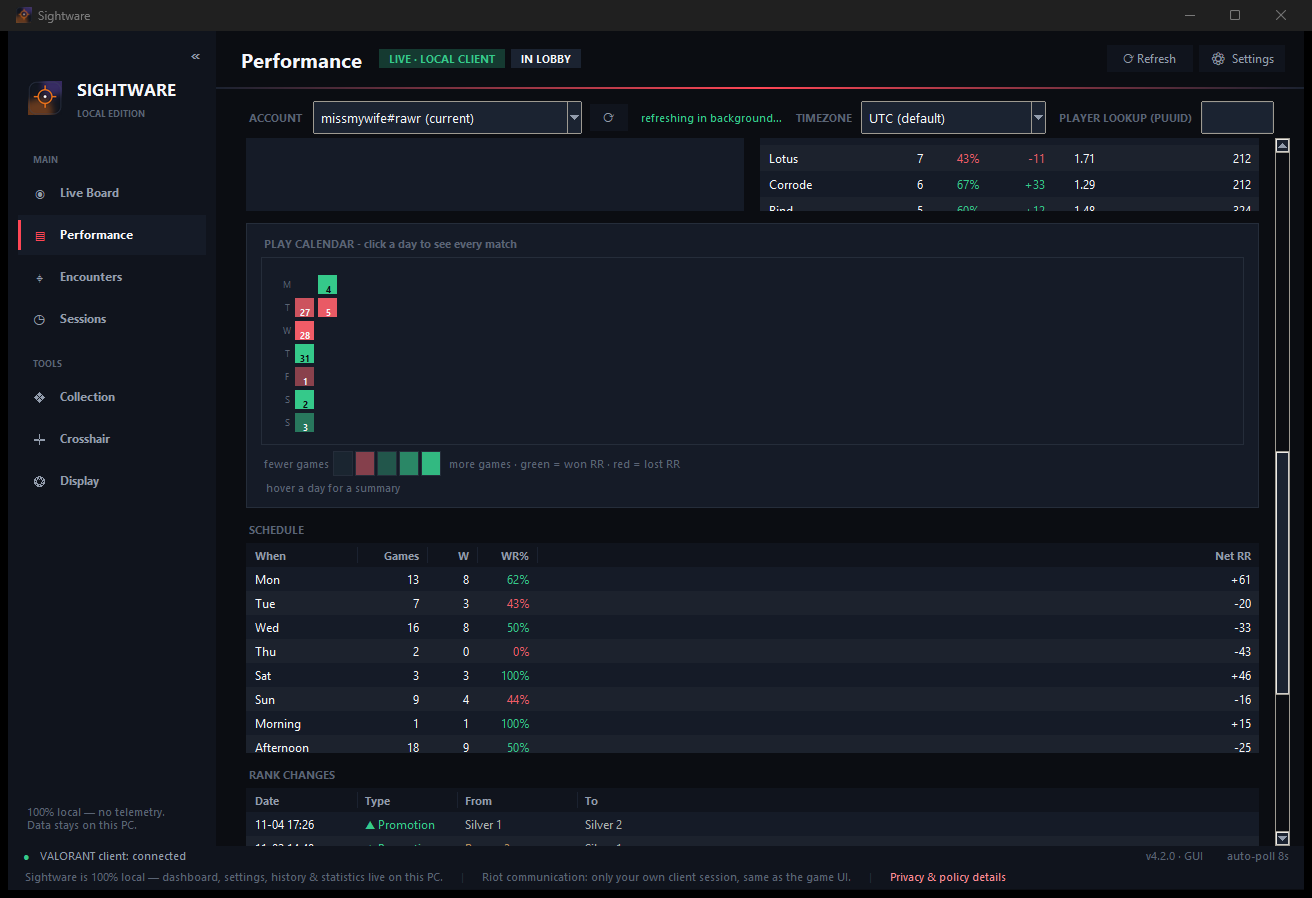
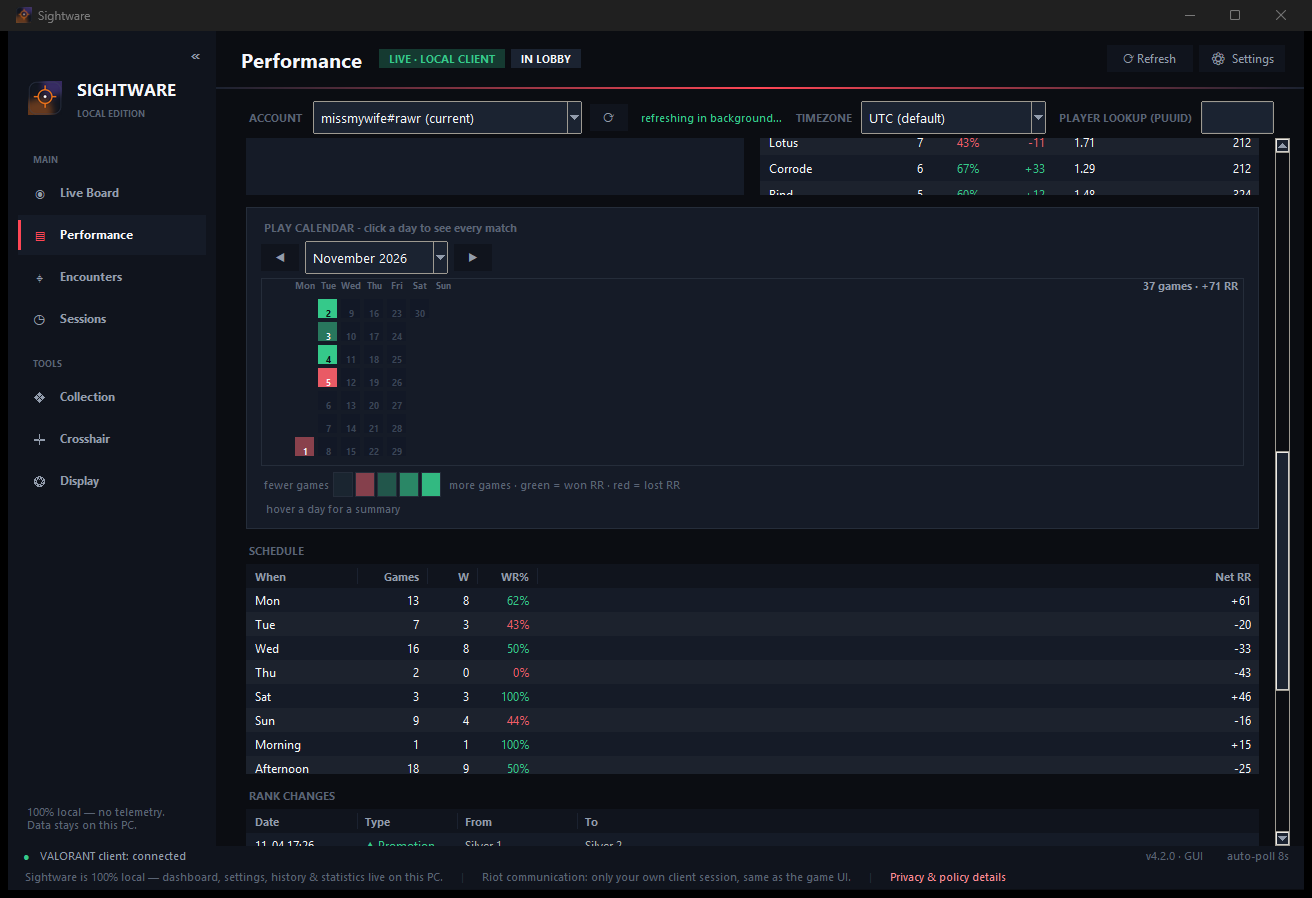
Play calendar: month view with dropdown navigation
- The calendar now shows ONE month at a time in a true month grid
  (Mon-Sun columns, every day numbered, empty days dimmed) — months
  no longer blend into one continuous strip
- Month dropdown (all months that have games) plus ◀ ▶ step arrows;
  defaults to the most recent month with data and keeps the selected
  month across refreshes
- Month summary in the corner: total games and net RR for the month
- Clicking any day still opens the full day-details dialog

diff --git a/gui/widgets.py b/gui/widgets.py
@@ -735,6 +735,7 @@ class CalendarHeatmap(tk.Canvas):
         self._on_hover = on_hover
         self._on_click = on_click
         self._hovered: str | None = None
+        self._month: str | None = None
         self.configure(cursor="hand2")
         self.bind("<Configure>", lambda e: self.redraw())
         self.bind("<Motion>", self._on_motion)
@@ -745,6 +746,28 @@ class CalendarHeatmap(tk.Canvas):
     def set_days(self, calendar: list[dict]) -> None:
         self._days = {d.get("name", ""): d for d in calendar or []}
         self.redraw()
+
+    # ── month view ─────────────────────────────────────────────
+    def months_available(self) -> list[str]:
+        """Sorted 'YYYY-MM' strings that have any recorded games."""
+        return sorted({name[:7] for name in self._days})
+
+    def set_month(self, year_month: str | None) -> None:
+        """Show a single month ('YYYY-MM') as its own grid."""
+        self._month = year_month
+        self._hovered = None
+        self.redraw()
+
+    def step_month(self, delta: int) -> str | None:
+        months = self.months_available()
+        if not months:
+            return None
+        if self._month not in months:
+            self.set_month(months[-1])
+            return self._month
+        i = max(0, min(len(months) - 1, months.index(self._month) + delta))
+        self.set_month(months[i])
+        return self._month
 
     def _set_hovered(self, name: str | None) -> None:
         if self._hovered != name:
@@ -782,6 +805,9 @@ class CalendarHeatmap(tk.Canvas):
     def redraw(self) -> None:
         self.delete("all")
         self._cells = []
+        if getattr(self, "_month", None):
+            self._redraw_month()
+            return
         days = sorted(self._days)
         if not days:
             self.create_text(120, (self.winfo_height() or 130) // 2,
@@ -850,6 +876,54 @@ class CalendarHeatmap(tk.Canvas):
                                       outline=TEXT, width=1)
             self._cells.append((x, y, day))
         self.configure(scrollregion=(0, 0, w, h))
+
+    def _redraw_month(self) -> None:
+        from datetime import date as _date
+        import datetime as _dt
+        y, m = (int(x) for x in self._month.split("-"))
+        first = _date(y, m, 1)
+        nxt = _date(y + (m == 12), 1 if m == 12 else m + 1, 1)
+        dim = (nxt - first).days
+        first_wd = first.weekday()  # Mon=0
+
+        w = self.winfo_width() or 640
+        step = self.CELL + self.GAP
+        head_y = 6
+        for c, lab in enumerate(("Mon", "Tue", "Wed", "Thu", "Fri", "Sat", "Sun")):
+            self.create_text(self.PAD_L + c * step + self.CELL / 2, head_y,
+                             text=lab, fill=TEXT_FAINT,
+                             font=("Segoe UI", 7, "bold"))
+        month_total = 0
+        month_net = 0
+        for d in range(dim):
+            name = f"{y:04d}-{m:02d}-{d + 1:02d}"
+            col, row = divmod(first_wd + d, 7)
+            x = self.PAD_L + col * step
+            yy = head_y + 14 + row * step
+            if x + self.CELL > w:
+                continue
+            day = self._days.get(name) or {"name": name, "games": 0,
+                                           "wins": 0, "winRate": None,
+                                           "netRr": 0}
+            games = int(day.get("games") or 0)
+            month_total += games
+            month_net += int(day.get("netRr") or 0)
+            fill = self._cell_color(day) if games else "#121826"
+            self.create_rectangle(x, yy, x + self.CELL, yy + self.CELL,
+                                  fill=fill, outline="",
+                                  tags=("day", name))
+            r8, g8, b8 = rgb(fill)
+            lum = (0.2126 * r8 + 0.7152 * g8 + 0.0722 * b8) / 255
+            num_col = "#0B0D12" if lum > 0.55 else (
+                "#3A4556" if not games else "#F5F7FA")
+            self.create_text(x + self.CELL / 2, yy + self.CELL - 5,
+                             text=str(d + 1), fill=num_col,
+                             font=("Segoe UI", 7, "bold"))
+            self._cells.append((x, yy, day))
+        self.configure(scrollregion=(0, 0, w, head_y + 14 + 6 * step + 6))
+        net_txt = f"{'+' if month_net > 0 else ''}{month_net} RR"
+        self.create_text(w - 6, head_y, text=f"{month_total} games · {net_txt}",
+                         anchor="e", fill=TEXT_DIM, font=("Segoe UI", 8, "bold"))
 
     def _on_motion(self, evt) -> None:
         hit = None

diff --git a/gui/tabs/performance_tab.py b/gui/tabs/performance_tab.py
@@ -157,6 +157,15 @@ class PerformanceTab(tk.Frame):
                  bg=CARD, fg=TEXT_FAINT,
                  font=("Segoe UI", 8, "bold")).pack(anchor="w", padx=14,
                                                     pady=(10, 4))
+        nav = tk.Frame(cal, bg=CARD)
+        nav.pack(fill="x", padx=14, pady=(0, 4))
+        ttk.Button(nav, text="◀", style="Ghost.TButton", width=3,
+                   command=lambda: self._step_month(-1)).pack(side="left")
+        self.month_cb = ttk.Combobox(nav, state="readonly", width=16)
+        self.month_cb.pack(side="left", padx=6)
+        self.month_cb.bind("<<ComboboxSelected>>", self._on_month_selected)
+        ttk.Button(nav, text="▶", style="Ghost.TButton", width=3,
+                   command=lambda: self._step_month(1)).pack(side="left")
         self.heatmap = CalendarHeatmap(cal, height=186,
                                        on_click=self._open_day)
         self.heatmap.pack(fill="x", padx=14)
@@ -176,6 +185,9 @@ class PerformanceTab(tk.Frame):
                                      bg=CARD, fg=TEXT_FAINT, font=("Segoe UI", 8))
         self.heatmap_info.pack(anchor="w", padx=16, pady=(2, 10))
         self.heatmap._on_hover = self._heatmap_hover
+        if months_avail := self.heatmap.months_available():
+            self.heatmap.set_month(months_avail[-1])
+        self._refresh_month_nav()
 
         section_title(body, "schedule").pack(anchor="w", padx=16, pady=(12, 4))
         self.schedule_table = DataTable(body, [
@@ -463,6 +475,13 @@ class PerformanceTab(tk.Frame):
         self.agent_table.set_rows(rows_of((payload.get("splits") or {}).get("agents")))
         self.map_table.set_rows(rows_of((payload.get("splits") or {}).get("maps")))
 
+        # the calendar's data lands here — pick the latest month on first load
+        if getattr(self.heatmap, "_month", None) is None:
+            months = self.heatmap.months_available()
+            if months:
+                self.heatmap.set_month(months[-1])
+        self._refresh_month_nav()
+
         srows = []
         for row in (sched.get("weekdays") or []) + (sched.get("dayparts") or []):
             if not row.get("games"):
@@ -508,6 +527,39 @@ class PerformanceTab(tk.Frame):
                 out.append({**p, "_time": local.strftime("%H:%M")})
         out.sort(key=lambda m: m.get("ts") or 0)
         return out
+
+    def _refresh_month_nav(self) -> None:
+        months = self.heatmap.months_available()
+        if not months:
+            self.month_cb.configure(values=[])
+            self.month_cb.set("—")
+            return
+        import datetime as _dt
+        labels = []
+        for ym in months:
+            y, m = (int(x) for x in ym.split("-"))
+            labels.append(_dt.date(y, m, 1).strftime("%B %Y"))
+        self.month_cb.configure(values=labels)
+        current = getattr(self.heatmap, "_month", None) or months[-1]
+        if current not in months:
+            current = months[-1]
+            self.heatmap.set_month(current)
+        self.month_cb.set(labels[months.index(current)])
+
+    def _step_month(self, delta: int) -> None:
+        current = self.heatmap.step_month(delta)
+        if current:
+            self._refresh_month_nav()
+
+    def _on_month_selected(self, _e=None) -> None:
+        import datetime as _dt
+        label = self.month_cb.get()
+        months = self.heatmap.months_available()
+        for ym in months:
+            y, m = (int(x) for x in ym.split("-"))
+            if _dt.date(y, m, 1).strftime("%B %Y") == label:
+                self.heatmap.set_month(ym)
+                return
 
     def _heatmap_hover(self, text: str | None) -> None:
         self.heatmap_info.configure(text=text or "hover a day for details",
